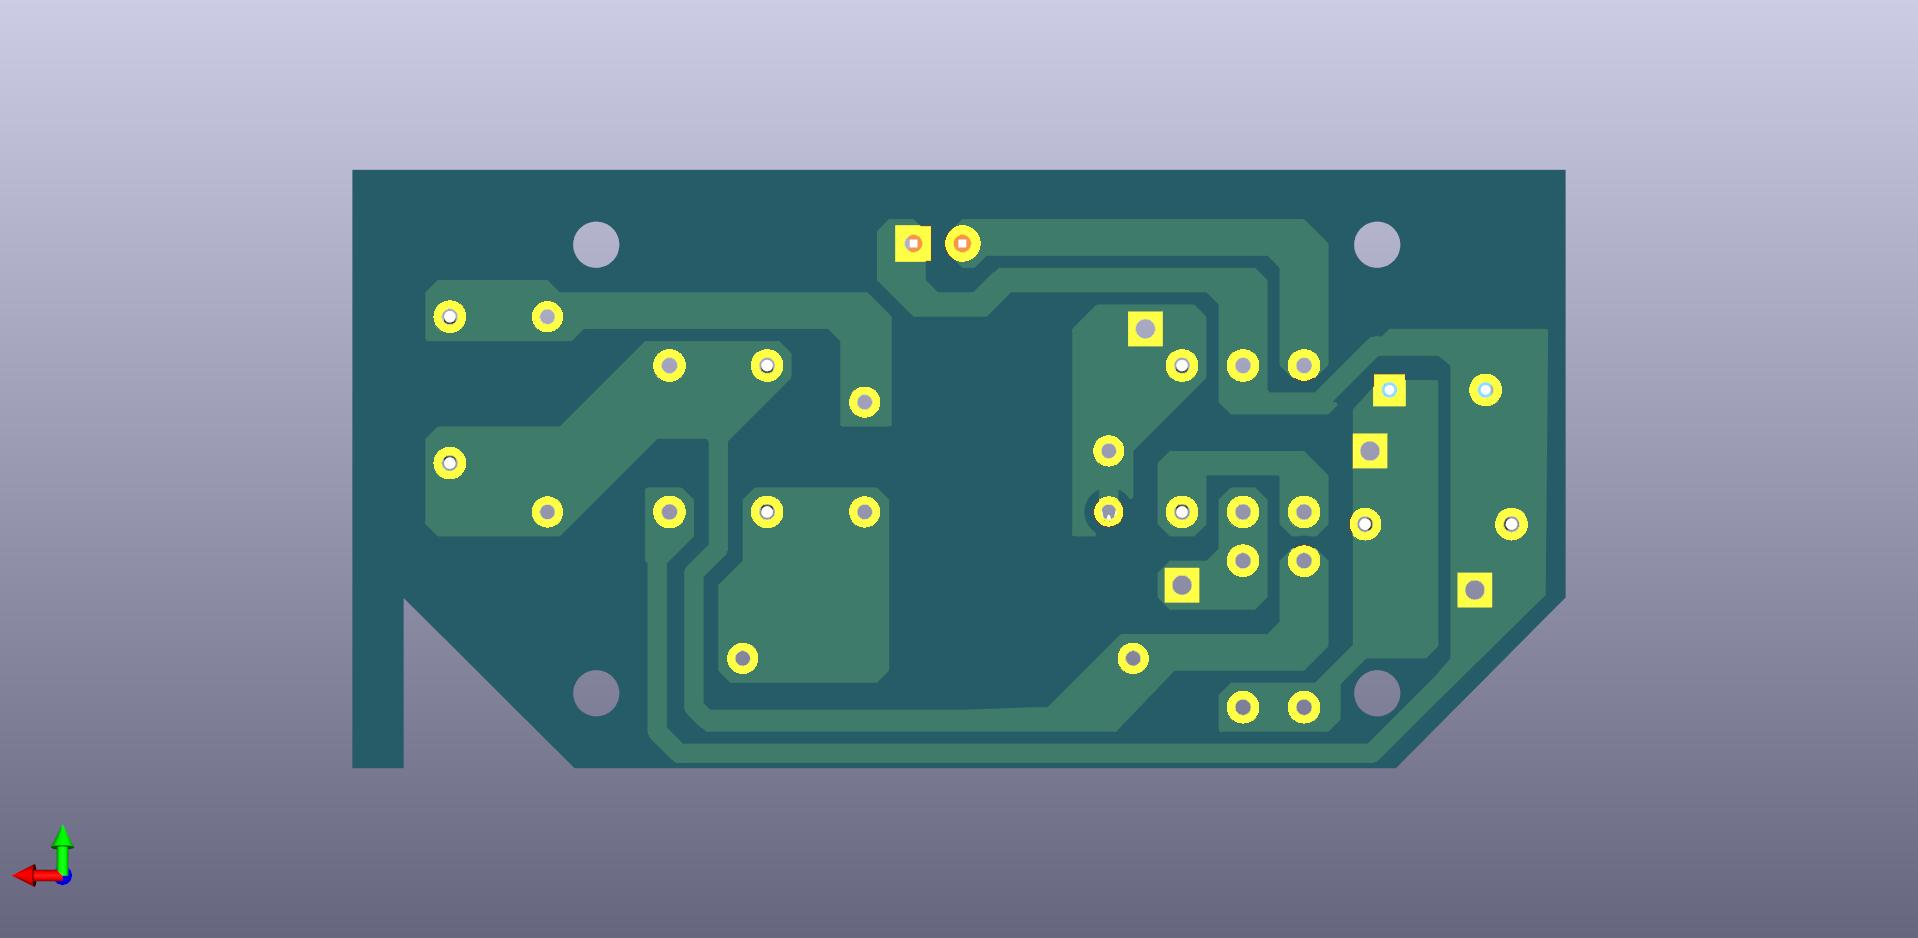
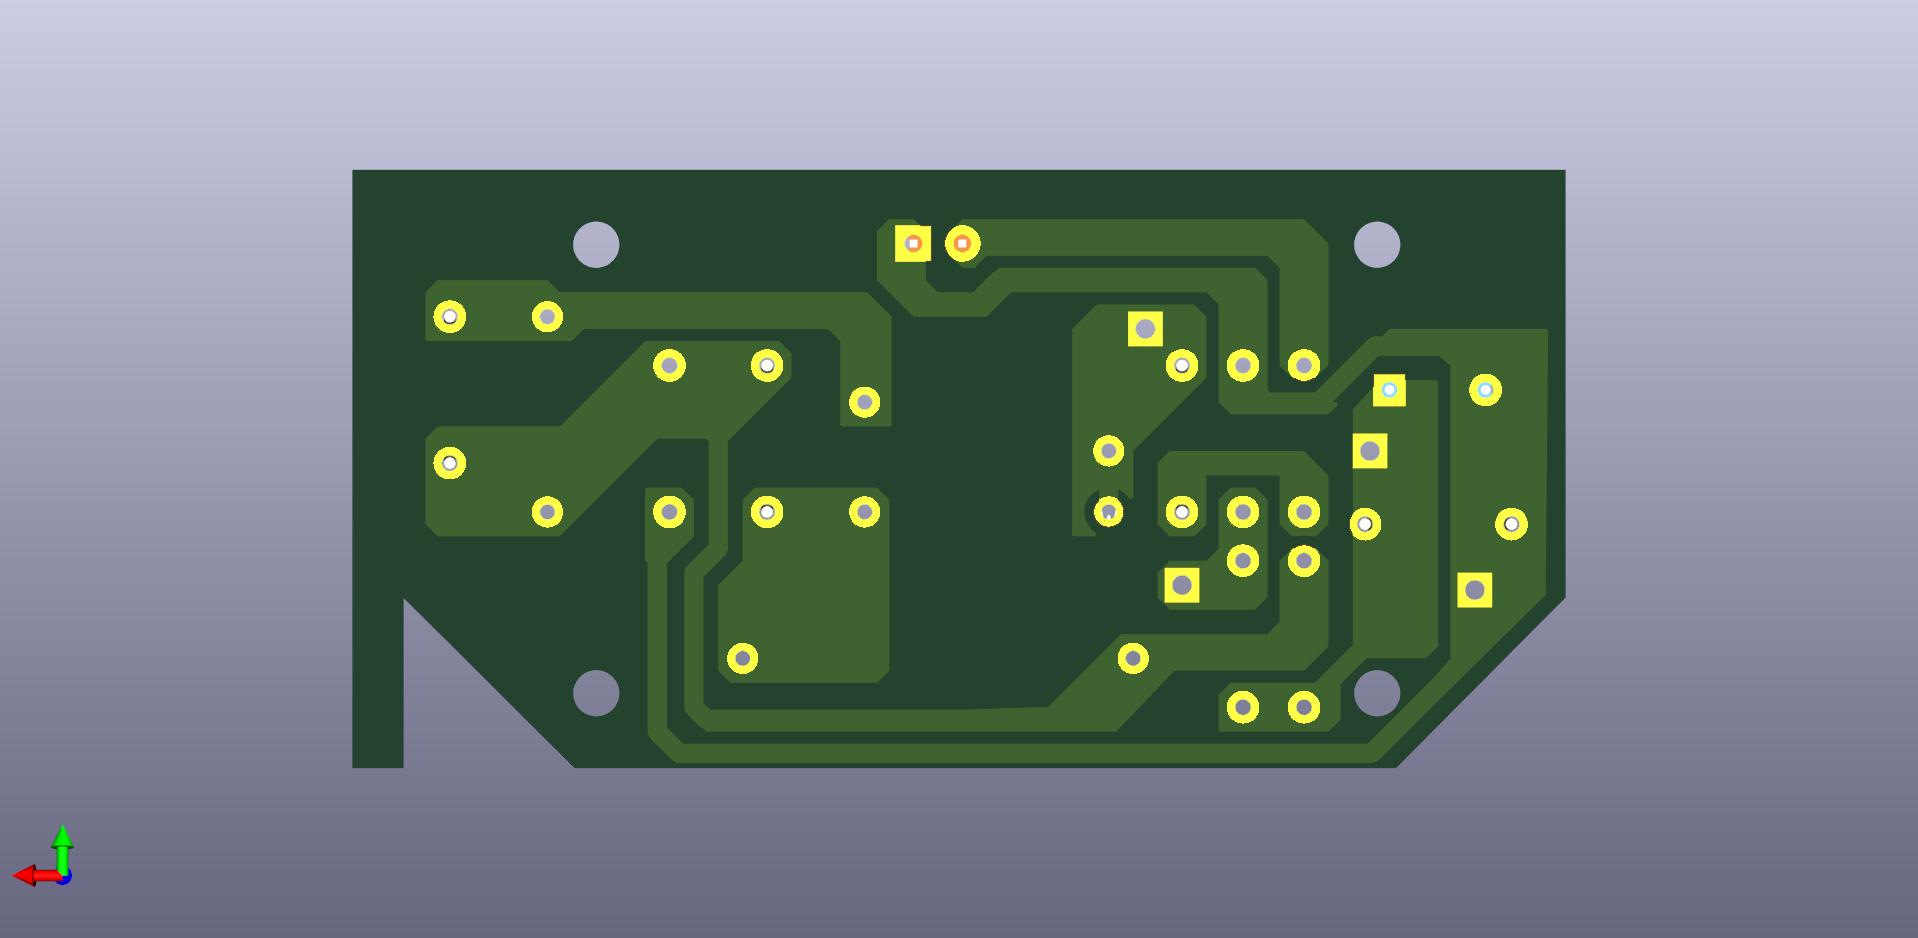
updated 3d solder mask color to green

diff --git a/README.md b/README.md
@@ -10,4 +10,6 @@ You may find the pdf version of the ![schematics](./extra/kicad-led-lamp-reveng-
 
 ![kicad arduino nano reveng back](./extra/kicad-led-lamp-reveng-back.jpg)
 
-Used a *Pelicano LED* from LLUM for reference, you can check it ![at this catalog](http://www.bronzearte.com.br/marketing/catalogo.pdf#page=59).
+Used a *Pelicano LED* from LLUM for reference, you can check it [at this catalog][catalog].
+
+[catalog]: http://www.bronzearte.com.br/marketing/catalogo.pdf#page=59
